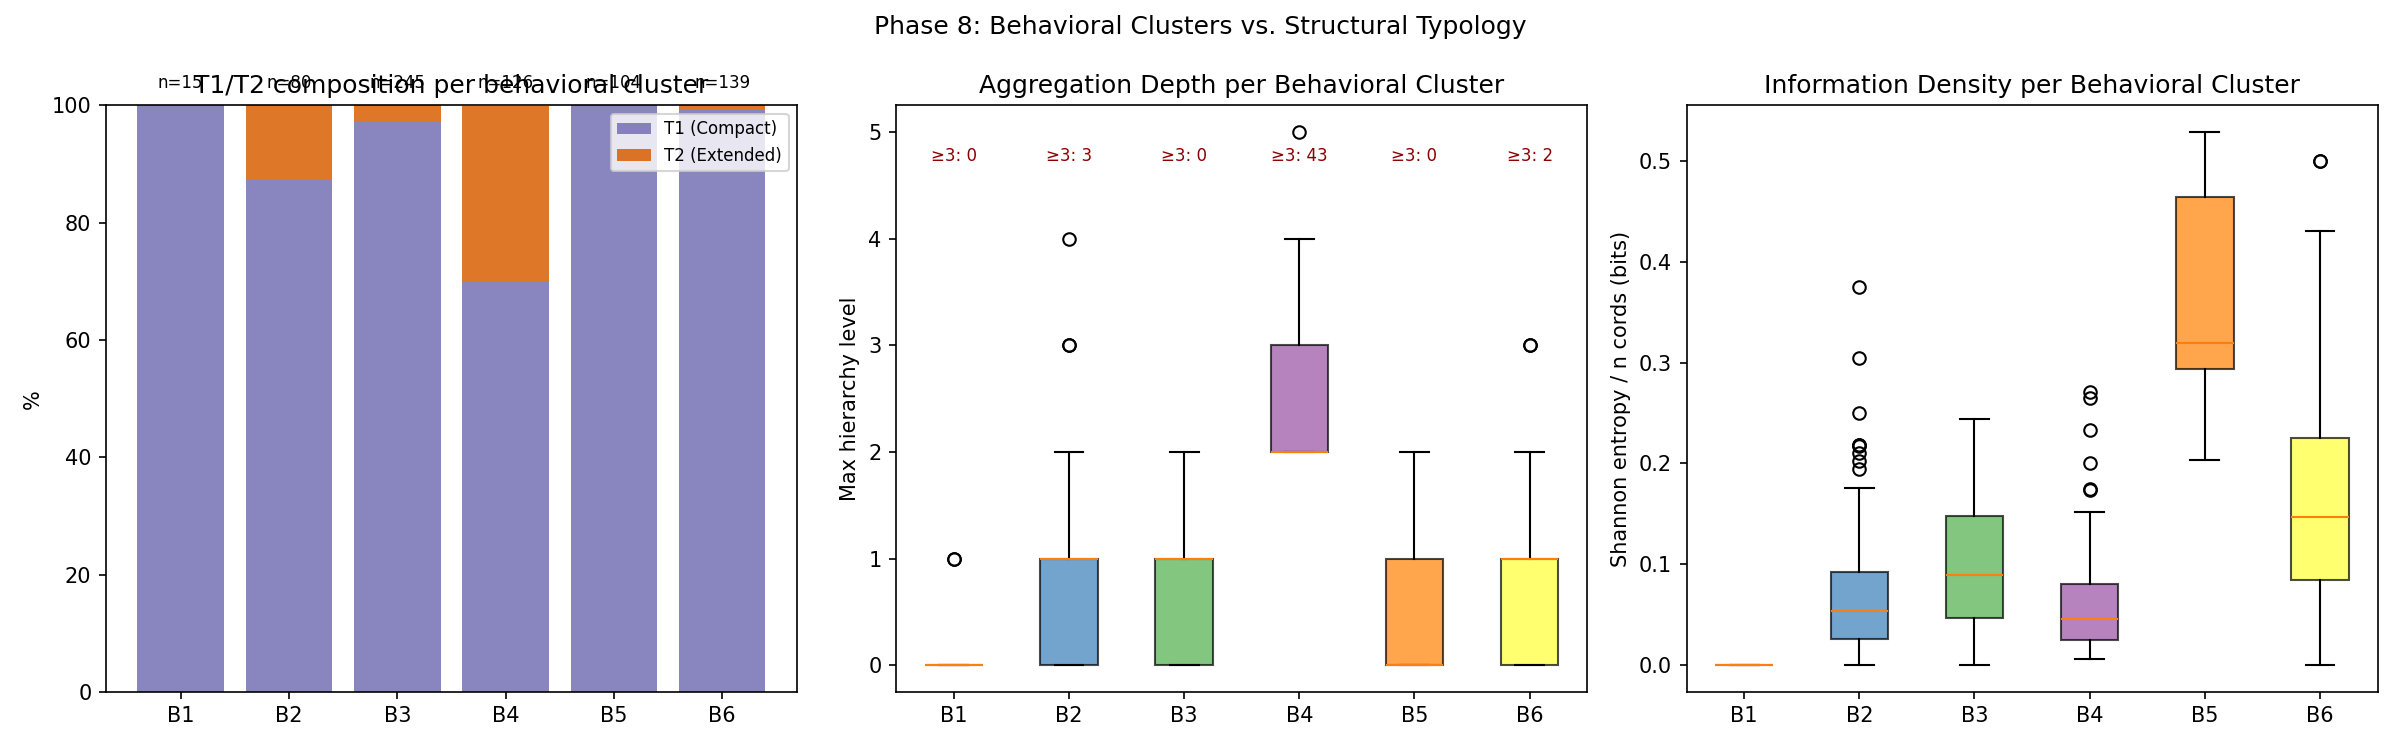
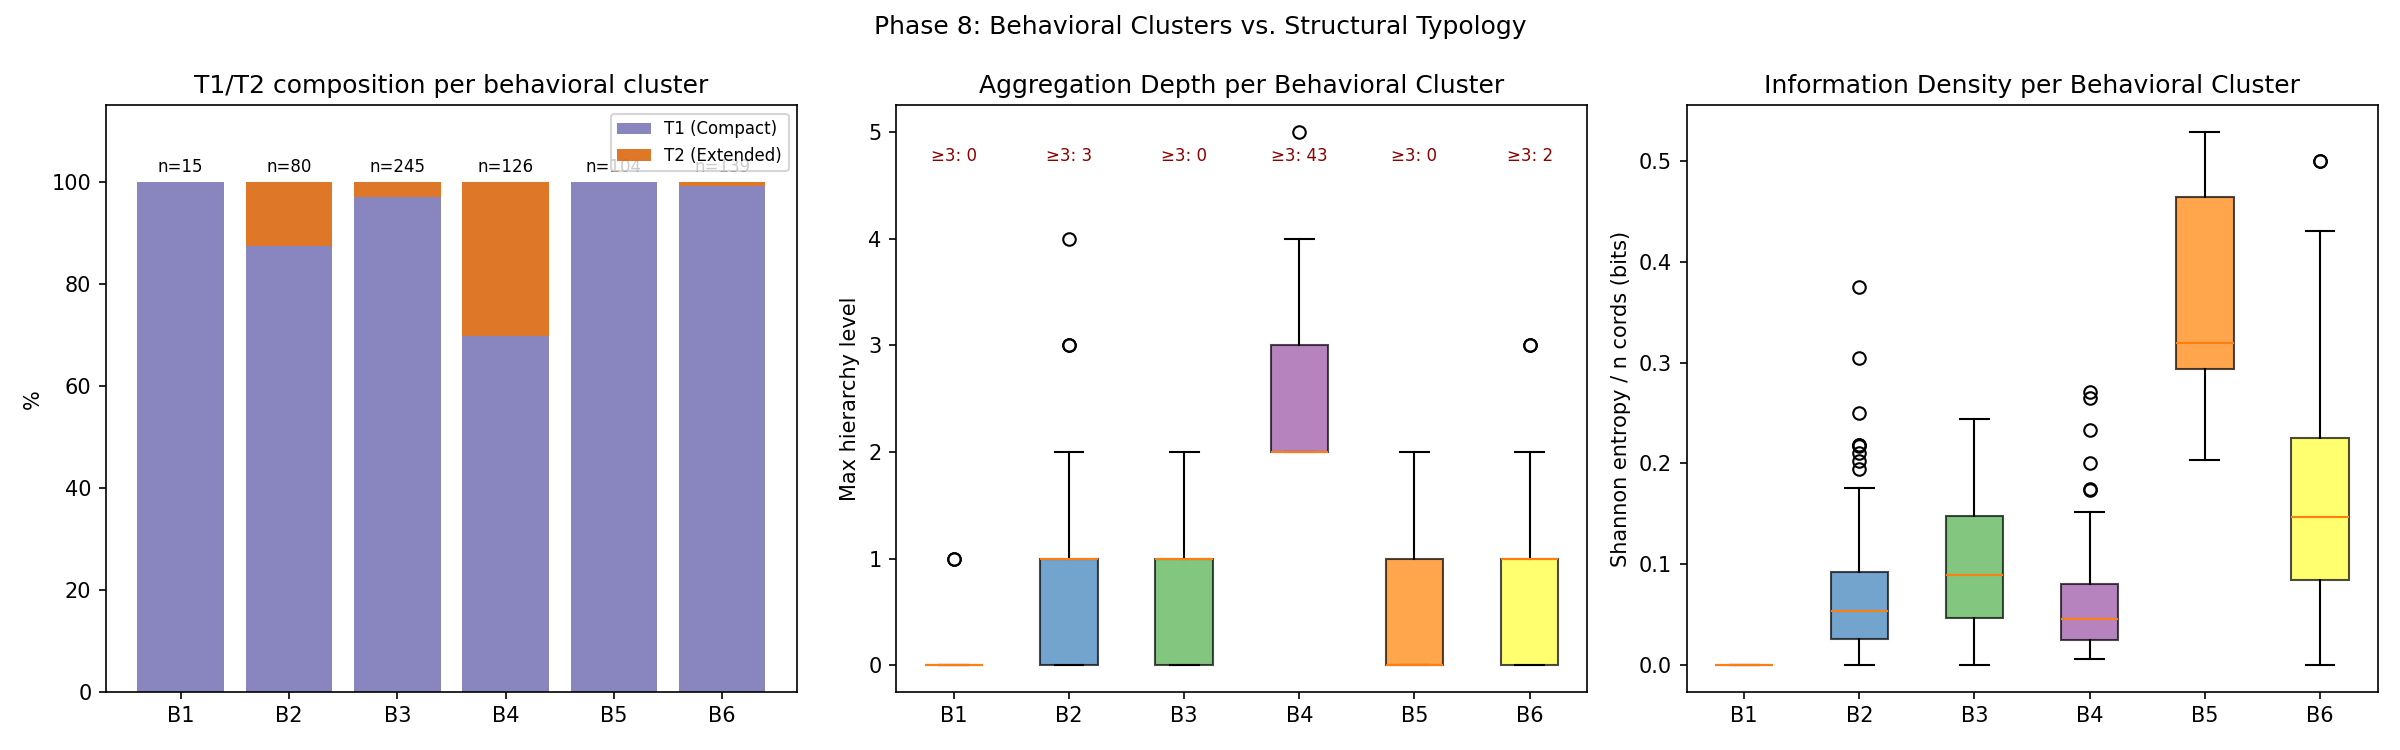
fix(phase8): fix truncated n= labels in cross_structural chart (ylim 0-115, y=102)

Changed region(s): [[0.0312, 0.092, 0.3438, 0.3373], [0.1875, 0.368, 0.25, 0.46]]

diff --git a/scripts/run_phase8_behavior.py b/scripts/run_phase8_behavior.py
@@ -307,7 +307,7 @@ ax.legend(fontsize=8)
 # Round-number affinity boxplot by cluster
 ax = axes[1]
 data_box = [feat_df[feat_df["beh_label"] == bl]["pct_round5"].values for bl in beh_labels]
-bp = ax.boxplot(data_box, labels=beh_labels, patch_artist=True)
+bp = ax.boxplot(data_box, tick_labels=beh_labels, patch_artist=True)
 for patch, color in zip(bp["boxes"], palette):
     patch.set_facecolor(color)
     patch.set_alpha(0.7)
@@ -386,26 +386,27 @@ ax.bar(x, cross_pct["T1"], label="T1 (Compact)", color="#7570b3", alpha=0.85)
 ax.bar(x, cross_pct["T2"], bottom=cross_pct["T1"], label="T2 (Extended)", color="#d95f02", alpha=0.85)
 ax.set_xticks(x); ax.set_xticklabels(cross.index)
 ax.set_ylabel("%"); ax.set_title("T1/T2 composition per behavioral cluster")
+ax.set_ylim(0, 115)
 ax.legend(fontsize=8)
 for xi, (t1v, t2v) in enumerate(zip(cross["T1"], cross["T2"])):
-    ax.text(xi, 103, f"n={t1v+t2v}", ha="center", fontsize=8)
+    ax.text(xi, 102, f"n={t1v+t2v}", ha="center", fontsize=8)
 
 # Middle: hierarchy depth boxplot
 ax = axes[1]
-bp = ax.boxplot(hier_box, labels=beh_labels, patch_artist=True)
+bp = ax.boxplot(hier_box, tick_labels=beh_labels, patch_artist=True)
 for patch, color in zip(bp["boxes"], palette):
     patch.set_facecolor(color); patch.set_alpha(0.7)
 ax.set_ylabel("Max hierarchy level")
 ax.set_title("Aggregation Depth per Behavioral Cluster")
 # Annotate deep-hierarchy khipus
-n_deep = feat_df.groupby("beh_label").apply(lambda d: (d["max_hier_level"] >= 3).sum())
+n_deep = feat_df[feat_df["max_hier_level"] >= 3].groupby("beh_label").size().reindex(beh_labels, fill_value=0)
 for xi, (bl, nd) in enumerate(n_deep.items()):
     ax.text(xi + 1, ax.get_ylim()[1] * 0.9, f"≥3: {nd}", ha="center", fontsize=8, color="darkred")
 
 # Right: entropy per cord boxplot
 entr_box = [feat_df[feat_df["beh_label"] == bl]["entropy_per_cord"].values for bl in beh_labels]
 ax = axes[2]
-bp = ax.boxplot(entr_box, labels=beh_labels, patch_artist=True)
+bp = ax.boxplot(entr_box, tick_labels=beh_labels, patch_artist=True)
 for patch, color in zip(bp["boxes"], palette):
     patch.set_facecolor(color); patch.set_alpha(0.7)
 ax.set_ylabel("Shannon entropy / n cords (bits)")
